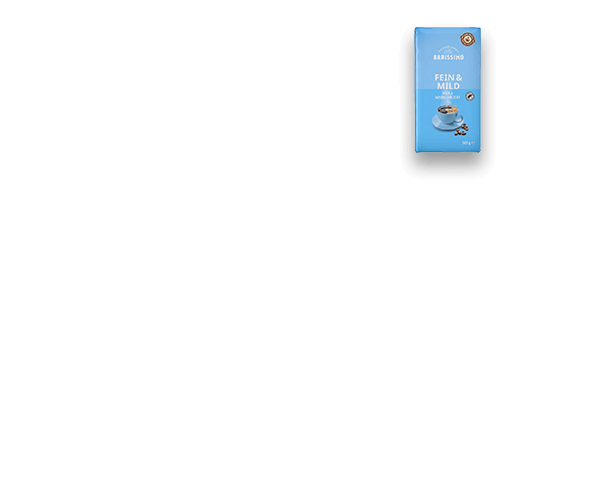
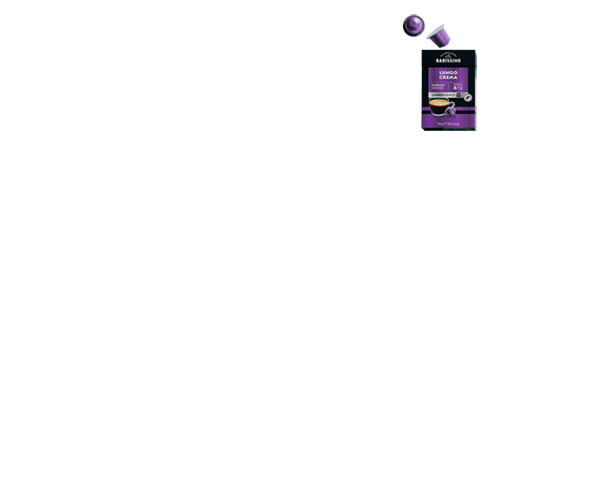
new Aldi version

Changed region(s): [[0.66, 0.03, 0.81, 0.36]]

diff --git a/preview/Aldi/Aldi_Barissimo/300x250/main.js b/preview/Aldi/Aldi_Barissimo/300x250/main.js
@@ -33,15 +33,20 @@ function getAnimation(){
     masterTL.from("#headline", 1, {opacity:0, ease:Sine.easeOut}, "start")
     
     masterTL.from("#product3", 1, {scale:3, ease:Power2.easeIn}, "start+=1")
-    masterTL.from("#product3", 0.75, {opacity:0, 'filter': 'blur(2px)', ease:Sine.easeOut}, "start+=1")
+    masterTL.from("#shadow3", 1, {x:-100, y:100, scale:4, opacity:0, 'filter': 'blur(5px)', ease:Sine.easeIn}, "start+=1")
+    masterTL.from("#product3", 0.75, {opacity:0, 'filter': 'blur(2px)', ease:Power4.easeOut}, "start+=1")
     masterTL.from("#product4", 1, {scale:3, ease:Power2.easeIn}, "start+=1.6")
-    masterTL.from("#product4", 0.75, {opacity:0, 'filter': 'blur(2px)', ease:Sine.easeOut}, "start+=1.6")
+    masterTL.from("#shadow4", 1, {x:-100, y:100, scale:4, opacity:0, 'filter': 'blur(5px)', ease:Sine.easeIn}, "start+=1.6")
+    masterTL.from("#product4", 0.75, {opacity:0, 'filter': 'blur(2px)', ease:Power4.easeOut}, "start+=1.6")
     masterTL.from("#product1", 1, {scale:3, ease:Power2.easeIn}, "start+=2.2")
-    masterTL.from("#product1", 0.75, {opacity:0, 'filter': 'blur(2px)', ease:Sine.easeOut}, "start+=2.2")
+    masterTL.from("#shadow1", 1, {x:-100, y:100, scale:4, opacity:0, 'filter': 'blur(5px)', ease:Sine.easeIn}, "start+=2.2")
+    masterTL.from("#product1", 0.75, {opacity:0, 'filter': 'blur(2px)', ease:Power4.easeOut}, "start+=2.2")
     masterTL.from("#product5", 1, {scale:3, ease:Power2.easeIn}, "start+=2.8")
-    masterTL.from("#product5", 0.75, {opacity:0, 'filter': 'blur(2px)', ease:Sine.easeOut}, "start+=2.8")
+    masterTL.from("#shadow5", 1, {x:-100, y:100, scale:4, opacity:0, 'filter': 'blur(5px)', ease:Sine.easeIn}, "start+=2.8")
+    masterTL.from("#product5", 0.75, {opacity:0, 'filter': 'blur(2px)', ease:Power4.easeOut}, "start+=2.8")
     masterTL.from("#product2", 1, {scale:3, ease:Power2.easeIn}, "start+=3.4")
-    masterTL.from("#product2", 0.75, {opacity:0, 'filter': 'blur(2px)', ease:Sine.easeOut}, "start+=3.4")
+    masterTL.from("#shadow2", 1, {x:-100, y:100, scale:4, opacity:0, 'filter': 'blur(5px)', ease:Sine.easeIn}, "start+=3.4")
+    masterTL.from("#product2", 0.75, {opacity:0, 'filter': 'blur(2px)', ease:Power4.easeOut}, "start+=3.4")
     
     masterTL.from("#color2", 0.5, {y:"-100%", ease:Sine.easeOut}, "start+=5");
     masterTL.from("#productBig", 0.5, {y:"100%", ease:Sine.easeOut}, "start+=5");

diff --git a/preview/Aldi/Aldi_Barissimo/300x250/index.html b/preview/Aldi/Aldi_Barissimo/300x250/index.html
@@ -11,6 +11,21 @@
 <ft-default clicktag>
     <div id="banner">
 
+        <div id="productsWrapper">
+            <img id="productsBg" src="products_bg.jpg">
+            <img id="shadow3" class="product" src="shadow_3.png">
+            <img id="shadow4" class="product" src="shadow_4.png">
+            <img id="shadow1" class="product" src="shadow_1.png">
+            <img id="shadow5" class="product" src="shadow_5.png">
+            <img id="shadow2" class="product" src="shadow_2.png">
+            <img id="product3" class="product" src="product3.png">
+            <img id="product4" class="product" src="product4.png">
+            <img id="product1" class="product" src="product1.png">
+            <img id="product5" class="product" src="product5.png">
+            <img id="product2" class="product" src="product2.png">
+        </div>
+
+
         <div id="leftWrapper">
             <div id="color2"></div>
             <div id="color3"></div>
@@ -18,14 +33,6 @@
             <img id="headline" class="headline" src="headline.png">
             <img id="headline2" class="headline" src="headline2.png">
             <img id="headline3" class="headline" src="headline3.png">
-        </div>
-
-        <div id="productsWrapper">
-            <img id="product3" class="product" src="product3.png">
-            <img id="product4" class="product" src="product4.png">
-            <img id="product1" class="product" src="product1.png">
-            <img id="product5" class="product" src="product5.png">
-            <img id="product2" class="product" src="product2.png">
         </div>
 
         <img id="productBig" class="productBig" src="product_big.jpg">

diff --git a/preview/Aldi/Aldi_Barissimo/300x250/style.css b/preview/Aldi/Aldi_Barissimo/300x250/style.css
@@ -90,26 +90,34 @@ img, div, object{
     height: 100%;
 }
 
-.product{
+#productsBg{
     width: 100%;
 }
 
+.product{
+    width: 100%;
+}
+#shadow1,
 #product1{
-    transform-origin: 224px 20px;
+    transform-origin: 224px 50px;
 }
 
+#shadow2,
 #product2{
     transform-origin: 190px 125px;
 }
 
+#shadow3,
 #product3{
     transform-origin: 258px 125px;
 }
 
+#shadow4,
 #product4{
     transform-origin: 190px 240px;
 }
 
+#shadow5,
 #product5{
     transform-origin: 258px 240px;
 }
